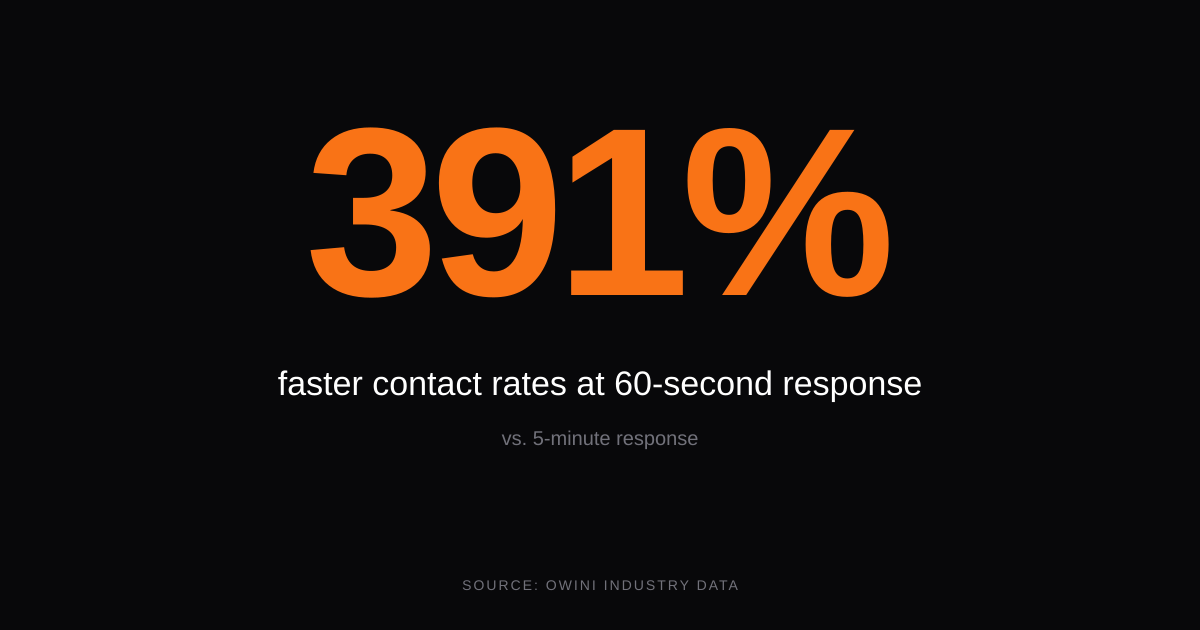
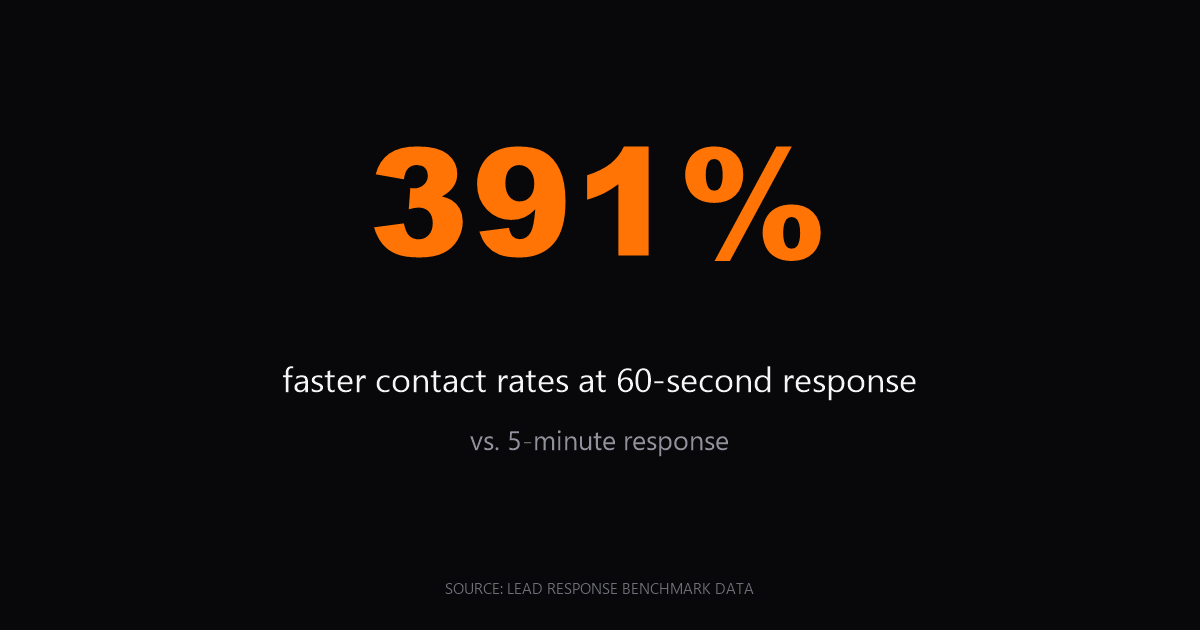
edit: remove competitor source and add internal links

diff --git a/content/blog/real-cost-3-person-bdc-2026.md b/content/blog/real-cost-3-person-bdc-2026.md
@@ -29,12 +29,12 @@ entities:
     sameAs: 'https://en.wikipedia.org/wiki/Call_centre'
 hide_hero: true
 ---
-A 3-person BDC does not cost what shows up in the payroll column. By the time you add benefits, manager oversight, software, turnover, vacancy gaps, and the leads that age out before anyone touches them, the real annual number is usually closer to **$180K-$300K per rooftop**. That is the number a GM should use when deciding whether the BDC is creating capacity or just hiding leakage.
+A 3-person [BDC](https://www.visquanta.com/blog/ai-bdc-guide-for-car-dealerships) does not cost what shows up in the payroll column. By the time you add benefits, manager oversight, software, turnover, vacancy gaps, and the leads that age out before anyone touches them, the real annual number is usually closer to **$180K-$300K per rooftop**. That is the number a GM should use when deciding whether the BDC is creating capacity or just hiding leakage.
 
 ### Key Takeaways
 
 - A 3-person BDC is a fixed-cost department attached to variable lead flow.
-- The visible cost is salary; the hidden cost is missed response, slow follow-up, and duplicated admin work.
+- The visible cost is salary; the hidden cost is missed response, [slow follow-up](https://www.visquanta.com/blog/speed-to-lead-slow-follow-up-sales-impact), and duplicated admin work.
 - The 391% chart is a speed-to-lead benchmark: contacting a lead inside 60 seconds can massively outperform waiting several minutes, but it is not a guaranteed close-rate promise.
 - Automation works best when it removes clerical touches and leaves humans on complex deals.
 - The right question is not "Do we need a BDC?" It is "Which BDC tasks still need a human?"
@@ -45,7 +45,7 @@ The 391% figure is a **response-time lift**, not a magic revenue guarantee. It c
 
 ## What Does a 3-Person BDC Really Cost?
 
-Start with the obvious line item. Three BDC reps at $45K-$55K each put base payroll around $135K-$165K before taxes, benefits, PTO, recruiting, training, manager time, phone tools, texting tools, CRM seats, QA, and churn. Add those loads and the planning range moves fast.
+Start with the obvious line item. Three BDC reps at $45K-$55K each put base payroll around $135K-$165K before taxes, benefits, PTO, recruiting, training, manager time, phone tools, texting tools, [CRM](https://www.visquanta.com/blog/crm-database-reactivation-guide) seats, QA, and churn. Add those loads and the planning range moves fast.
 
 That is why **$180K-$300K per year** is the useful operating range. A lean single-point store may sit near the lower end. A metro rooftop with higher comp, turnover, and a dedicated BDC manager can land closer to the upper end. Either way, the BDC is not a cheap function. It is a capital allocation decision.
 
@@ -53,7 +53,7 @@ Cox Automotive's CRM guidance makes the same operational point from a different 
 
 ## Where Does the Waste Usually Show Up?
 
-The first leak is response time. If the BDC is staffed nine to six, Monday to Friday, every evening lead and Sunday lead starts life behind. A store can have good reps and still lose because the coverage model is wrong.
+The first leak is [response time](https://www.visquanta.com/blog/how-to-reduce-lead-response-time-in-auto-sales). If the BDC is staffed nine to six, Monday to Friday, every evening lead and Sunday lead starts life behind. A store can have good reps and still lose because the coverage model is wrong.
 
 The second leak is duplicated admin. BDC reps spend too much of the day acknowledging leads, confirming appointments, copying stock numbers, checking inventory, and sending basic status updates. Those touches matter, but they do not all require a trained human.
 
@@ -63,13 +63,13 @@ The third leak is unworked demand. Pied Piper's Internet Lead Effectiveness rese
 
 Dealers often treat "inside five minutes" as fast. The buyer does not. The buyer is already comparing listings, payment ranges, and trade values across multiple tabs.
 
-The old benchmark was speed. The new benchmark is **speed with context**. A reply inside 60 seconds only matters if it answers the actual lead: the vehicle, the appointment, the trade, the payment question, or the next action. A fast generic autoresponder still feels like a stall.
+The old benchmark was speed. The new benchmark is **speed with context**. A reply inside 60 seconds only matters if it answers the actual lead: the vehicle, the appointment, the trade, the payment question, or the next action. A fast generic autoresponder still feels like a stall, which is why first-touch speed has to be measured alongside [first-contact quality](https://www.visquanta.com/blog/how-to-improve-first-contact-rates-in-dealerships).
 
 That is why the 391% chart should be read carefully. It supports a direction: faster first contact improves the odds of reaching the shopper. It does not mean every dealer will get a 391% sales lift. The number is useful because it forces the right operational question: can your store respond while the buyer is still active?
 
 ## How Should Text, Phone, and CRM Work Together?
 
-Text should win the first touch when the customer starts digitally. It is fast, visible, and easier to answer during work hours. Phone still matters once intent rises: trade appraisal, payment objection, F&I question, appointment confirmation.
+[Text should win the first touch](https://www.visquanta.com/blog/5-reasons-car-buyers-prefer-sms-over-phone-calls-from-dealerships) when the customer starts digitally. It is fast, visible, and easier to answer during work hours. Phone still matters once intent rises: trade appraisal, payment objection, F&I question, appointment confirmation.
 
 The better model is not "replace calls with text." It is **text first, call when the conversation earns it**. Cox Automotive's digital retailing research points to the same broader trend: dealers and buyers both benefit when online and in-store steps connect cleanly instead of forcing the buyer to restart the process ([Cox Automotive digital retailing study](https://www.coxautoinc.com/insights-hub/2025-digitization-of-automotive-retail/)).
 
@@ -95,7 +95,7 @@ Automate the work that is repetitive, rules-based, and time-sensitive:
 - Long-tail CRM nurture
 - After-hours capture
 
-That split is where the economics improve. You are not paying humans less because they are less valuable. You are protecting their time for the moments where they are actually valuable.
+That split is where the economics improve. You are not paying humans less because they are less valuable. You are protecting their time for the moments where they are actually valuable, which is the practical version of [AI transforming dealership jobs](https://www.visquanta.com/blog/ai-isnt-replacing-car-dealership-jobs-its-transforming-them) instead of simply replacing them.
 
 ---
 
